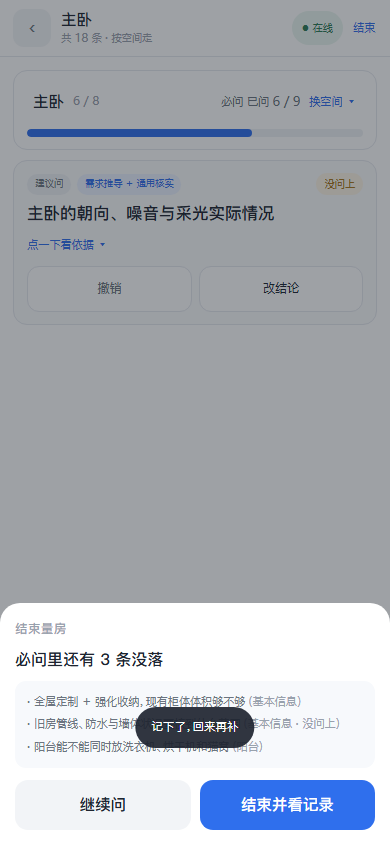
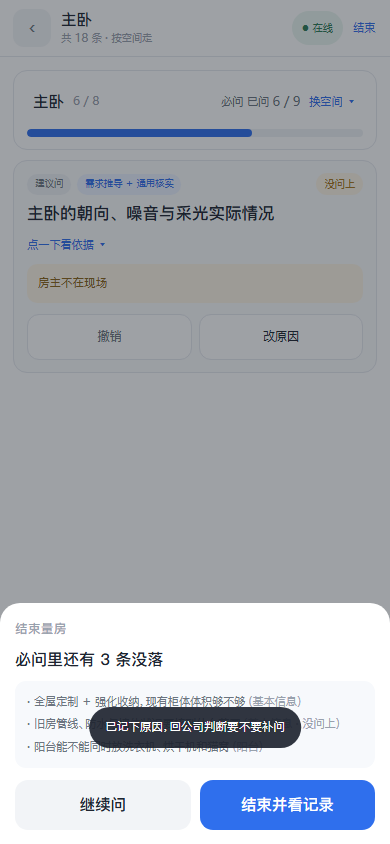
feat: 「没问上」也开抽屉记一句原因，产品文档升到 V0.8

Changed region(s): [[0.2154, 0.8318, 0.7692, 0.8934], [0.0923, 0.3081, 0.3077, 0.4313], [0.6769, 0.3389, 0.7692, 0.4005]]

diff --git a/designer/现场量房_Demo_V0.1.html b/designer/现场量房_Demo_V0.1.html
@@ -87,6 +87,7 @@ button{font:inherit;cursor:pointer;border:0;background:none;color:inherit;text-a
 .det b{color:#4a5462;font-weight:500}
 .det .row + .row{margin-top:6px}
 .note{margin-top:9px;background:var(--green-weak);border-radius:10px;padding:9px 11px;font-size:13px;line-height:1.6;color:#255f42}
+.note.skip{background:var(--amber-weak);color:#8a6216}
 .acts{display:flex;gap:7px;margin-top:11px}
 .act{min-height:46px;border-radius:12px;border:1px solid var(--line);background:#fff;display:flex;align-items:center;justify-content:center;font-size:13.5px;flex:1;text-align:center}
 .act.main{flex:1.5;background:var(--brand);border-color:var(--brand);color:#fff;font-weight:600;font-size:15px}
@@ -392,9 +393,9 @@ function boot(){
         '<div class="row"><b>现场要核实　</b>' + esc(i.verify.join('；')) + '</div>' +
         (ctx ? '<div class="row"><b>房主填的　</b>' + ctx + '</div>' : '') + '</div>'
         : '<div class="hint">点一下看依据 ▾</div>') +
-      (r && r.note ? '<div class="note">' + esc(r.note) + '</div>' : '') +
+      (r && r.note ? '<div class="note' + (r.status === 'skip' ? ' skip' : '') + '">' + esc(r.note) + '</div>' : '') +
       '<div class="acts">' +
-        (r ? '<button class="act undo" data-a="undo">撤销</button><button class="act" data-a="note">改结论</button>'
+        (r ? '<button class="act undo" data-a="undo">撤销</button><button class="act" data-a="note">' + (r.status === 'skip' ? '改原因' : '改结论') + '</button>'
            : '<button class="act" data-a="skip">没问上</button><button class="act" data-a="note">记一笔</button>' +
              '<button class="act main" data-a="asked">已问</button>') +
       '</div></div>';
@@ -452,7 +453,7 @@ function boot(){
         const r = rec[keyOf(i)];
         const tag = r ? (r.status === 'asked' ? '已问' : '没问上') : '还没问到';
         out += '\n- [' + tag + '] ' + i.q + '\n';
-        if (r && r.note) out += '  结论：' + r.note + '\n';
+        if (r && r.note) out += (r.status === 'asked' ? '  结论：' : '  原因：') + r.note + '\n';
       });
     });
     return out;
@@ -461,23 +462,26 @@ function boot(){
   /* ===================== 底部抽屉 ===================== */
   function overlayHtml() {
     const o = state.overlay;
-    if (o.kind === 'note') return noteSheet(o.item);
+    if (o.kind === 'note') return noteSheet(o.item, o.status);
     if (o.kind === 'spaces') return spacesSheet();
     return endSheet();
   }
 
-  function noteSheet(item) {
+  function noteSheet(item, status) {
     const d = demand();
+    const skip = status === 'skip';
     const ctx = item.fields.filter(f => !isEmpty(d.values[f]))
       .map(f => '<b>' + esc((F[f] || {}).label || f) + '</b>　' + esc(show(d.values[f]))).join('<br>');
-    const quick = ['房主确认可以', '现场条件不允许', '要回去核尺寸', '房主改了想法', '要加预算'];
-    return '<div class="sheet on" id="sheet"><h4>记一笔 · 保存后标成已问</h4>' +
+    const quick = skip
+      ? ['房主不在现场', '现场条件不允许', '时间不够，回头再问', '要等物业或图纸']
+      : ['房主确认可以', '现场条件不允许', '要回去核尺寸', '房主改了想法', '要加预算'];
+    return '<div class="sheet on" id="sheet"><h4>' + (skip ? '记一句原因 · 保存后标成没问上' : '记一笔 · 保存后标成已问') + '</h4>' +
       '<div class="sq">' + esc(item.q) + '</div>' +
       (ctx ? '<div class="ctx"><b>房主填的</b><br>' + ctx + '</div>' : '') +
       '<div class="chips">' + quick.map(t => '<button class="chip" data-chip="' + esc(t) + '">' + esc(t) + '</button>').join('') + '</div>' +
-      '<textarea data-draft placeholder="一句话结论，回公司照着这条定方案">' + esc(state.overlay.text || '') + '</textarea>' +
+      '<textarea data-draft placeholder="' + (skip ? '为什么没问上，回公司好判断要不要补问' : '一句话结论，回公司照着这条定方案') + '">' + esc(state.overlay.text || '') + '</textarea>' +
       '<div class="sf"><button class="btn" id="sh-cancel">取消</button>' +
-      '<button class="btn primary" id="sh-save">保存并标记已问</button></div></div>';
+      '<button class="btn primary" id="sh-save">' + (skip ? '保存并标记没问上' : '保存并标记已问') + '</button></div></div>';
   }
 
   function spacesSheet() {
@@ -542,8 +546,8 @@ function boot(){
     if (open.length) { state.overlay = { kind:'end' }; state.scroll = 0; render(); }
     else { state.screen = 'summary'; state.scroll = 0; render(); }
   }
-  function openNote(item) {
-    state.overlay = { kind:'note', item, text:(recOf(state.cur)[keyOf(item)] || {}).note || '' };
+  function openNote(item, status) {
+    state.overlay = { kind:'note', item, status:status || 'asked', text:(recOf(state.cur)[keyOf(item)] || {}).note || '' };
     render();
     const ta = app.querySelector('textarea[data-draft]'); if (ta) ta.focus();
   }
@@ -575,12 +579,14 @@ function boot(){
     if (t.id === 'sh-cancel') { state.overlay = null; render(); return; }
     if (t.id === 'sh-end') { state.overlay = null; state.screen = 'summary'; state.scroll = 0; render(); return; }
     if (t.id === 'sh-save') {
-      const item = state.overlay.item; const text = (state.overlay.text || '').trim();
-      const key = keyOf(item);
+      const o = state.overlay;
+      const key = keyOf(o.item);
+      const status = o.status || 'asked';
+      const text = (o.text || '').trim();
       state.overlay = null;
-      if (text) recOf(state.cur)[key] = { status:'asked', note:text, at:nowHM(), synced:state.online };
+      recOf(state.cur)[key] = { status, note:text, at:nowHM(), synced:state.online };
       render();
-      toast('已记录，回来照着这条定方案');
+      toast(status === 'asked' ? '已记录，回来照着这条定方案' : '已记下原因，回公司判断要不要补问');
       return;
     }
     const chip = t.closest('[data-chip]');
@@ -598,11 +604,15 @@ function boot(){
       const card = act.closest('[data-key]'); const k = card.dataset.key;
       const a = act.dataset.a;
       if (a === 'asked') { setStatus(k, 'asked'); toast('已记录：' + state.space); return; }
-      if (a === 'skip') { setStatus(k, 'skip'); toast('记下了，回来再补'); return; }
+      if (a === 'skip') {
+        const it = itemsOf(demand()).find(x => keyOf(x) === k);
+        if (it) openNote(it, 'skip');
+        return;
+      }
       if (a === 'undo') { delete recOf(state.cur)[k]; render(); return; }
       if (a === 'note') {
         const item = itemsOf(demand()).find(x => keyOf(x) === k);
-        if (item) openNote(item);
+        if (item) openNote(item, (recOf(state.cur)[k] || {}).status || 'asked');
         return;
       }
     }

diff --git a/tools/_onsite_template.html b/tools/_onsite_template.html
@@ -87,6 +87,7 @@ button{font:inherit;cursor:pointer;border:0;background:none;color:inherit;text-a
 .det b{color:#4a5462;font-weight:500}
 .det .row + .row{margin-top:6px}
 .note{margin-top:9px;background:var(--green-weak);border-radius:10px;padding:9px 11px;font-size:13px;line-height:1.6;color:#255f42}
+.note.skip{background:var(--amber-weak);color:#8a6216}
 .acts{display:flex;gap:7px;margin-top:11px}
 .act{min-height:46px;border-radius:12px;border:1px solid var(--line);background:#fff;display:flex;align-items:center;justify-content:center;font-size:13.5px;flex:1;text-align:center}
 .act.main{flex:1.5;background:var(--brand);border-color:var(--brand);color:#fff;font-weight:600;font-size:15px}
@@ -392,9 +393,9 @@ function boot(){
         '<div class="row"><b>现场要核实　</b>' + esc(i.verify.join('；')) + '</div>' +
         (ctx ? '<div class="row"><b>房主填的　</b>' + ctx + '</div>' : '') + '</div>'
         : '<div class="hint">点一下看依据 ▾</div>') +
-      (r && r.note ? '<div class="note">' + esc(r.note) + '</div>' : '') +
+      (r && r.note ? '<div class="note' + (r.status === 'skip' ? ' skip' : '') + '">' + esc(r.note) + '</div>' : '') +
       '<div class="acts">' +
-        (r ? '<button class="act undo" data-a="undo">撤销</button><button class="act" data-a="note">改结论</button>'
+        (r ? '<button class="act undo" data-a="undo">撤销</button><button class="act" data-a="note">' + (r.status === 'skip' ? '改原因' : '改结论') + '</button>'
            : '<button class="act" data-a="skip">没问上</button><button class="act" data-a="note">记一笔</button>' +
              '<button class="act main" data-a="asked">已问</button>') +
       '</div></div>';
@@ -452,7 +453,7 @@ function boot(){
         const r = rec[keyOf(i)];
         const tag = r ? (r.status === 'asked' ? '已问' : '没问上') : '还没问到';
         out += '\n- [' + tag + '] ' + i.q + '\n';
-        if (r && r.note) out += '  结论：' + r.note + '\n';
+        if (r && r.note) out += (r.status === 'asked' ? '  结论：' : '  原因：') + r.note + '\n';
       });
     });
     return out;
@@ -461,23 +462,26 @@ function boot(){
   /* ===================== 底部抽屉 ===================== */
   function overlayHtml() {
     const o = state.overlay;
-    if (o.kind === 'note') return noteSheet(o.item);
+    if (o.kind === 'note') return noteSheet(o.item, o.status);
     if (o.kind === 'spaces') return spacesSheet();
     return endSheet();
   }
 
-  function noteSheet(item) {
+  function noteSheet(item, status) {
     const d = demand();
+    const skip = status === 'skip';
     const ctx = item.fields.filter(f => !isEmpty(d.values[f]))
       .map(f => '<b>' + esc((F[f] || {}).label || f) + '</b>　' + esc(show(d.values[f]))).join('<br>');
-    const quick = ['房主确认可以', '现场条件不允许', '要回去核尺寸', '房主改了想法', '要加预算'];
-    return '<div class="sheet on" id="sheet"><h4>记一笔 · 保存后标成已问</h4>' +
+    const quick = skip
+      ? ['房主不在现场', '现场条件不允许', '时间不够，回头再问', '要等物业或图纸']
+      : ['房主确认可以', '现场条件不允许', '要回去核尺寸', '房主改了想法', '要加预算'];
+    return '<div class="sheet on" id="sheet"><h4>' + (skip ? '记一句原因 · 保存后标成没问上' : '记一笔 · 保存后标成已问') + '</h4>' +
       '<div class="sq">' + esc(item.q) + '</div>' +
       (ctx ? '<div class="ctx"><b>房主填的</b><br>' + ctx + '</div>' : '') +
       '<div class="chips">' + quick.map(t => '<button class="chip" data-chip="' + esc(t) + '">' + esc(t) + '</button>').join('') + '</div>' +
-      '<textarea data-draft placeholder="一句话结论，回公司照着这条定方案">' + esc(state.overlay.text || '') + '</textarea>' +
+      '<textarea data-draft placeholder="' + (skip ? '为什么没问上，回公司好判断要不要补问' : '一句话结论，回公司照着这条定方案') + '">' + esc(state.overlay.text || '') + '</textarea>' +
       '<div class="sf"><button class="btn" id="sh-cancel">取消</button>' +
-      '<button class="btn primary" id="sh-save">保存并标记已问</button></div></div>';
+      '<button class="btn primary" id="sh-save">' + (skip ? '保存并标记没问上' : '保存并标记已问') + '</button></div></div>';
   }
 
   function spacesSheet() {
@@ -542,8 +546,8 @@ function boot(){
     if (open.length) { state.overlay = { kind:'end' }; state.scroll = 0; render(); }
     else { state.screen = 'summary'; state.scroll = 0; render(); }
   }
-  function openNote(item) {
-    state.overlay = { kind:'note', item, text:(recOf(state.cur)[keyOf(item)] || {}).note || '' };
+  function openNote(item, status) {
+    state.overlay = { kind:'note', item, status:status || 'asked', text:(recOf(state.cur)[keyOf(item)] || {}).note || '' };
     render();
     const ta = app.querySelector('textarea[data-draft]'); if (ta) ta.focus();
   }
@@ -575,12 +579,14 @@ function boot(){
     if (t.id === 'sh-cancel') { state.overlay = null; render(); return; }
     if (t.id === 'sh-end') { state.overlay = null; state.screen = 'summary'; state.scroll = 0; render(); return; }
     if (t.id === 'sh-save') {
-      const item = state.overlay.item; const text = (state.overlay.text || '').trim();
-      const key = keyOf(item);
+      const o = state.overlay;
+      const key = keyOf(o.item);
+      const status = o.status || 'asked';
+      const text = (o.text || '').trim();
       state.overlay = null;
-      if (text) recOf(state.cur)[key] = { status:'asked', note:text, at:nowHM(), synced:state.online };
+      recOf(state.cur)[key] = { status, note:text, at:nowHM(), synced:state.online };
       render();
-      toast('已记录，回来照着这条定方案');
+      toast(status === 'asked' ? '已记录，回来照着这条定方案' : '已记下原因，回公司判断要不要补问');
       return;
     }
     const chip = t.closest('[data-chip]');
@@ -598,11 +604,15 @@ function boot(){
       const card = act.closest('[data-key]'); const k = card.dataset.key;
       const a = act.dataset.a;
       if (a === 'asked') { setStatus(k, 'asked'); toast('已记录：' + state.space); return; }
-      if (a === 'skip') { setStatus(k, 'skip'); toast('记下了，回来再补'); return; }
+      if (a === 'skip') {
+        const it = itemsOf(demand()).find(x => keyOf(x) === k);
+        if (it) openNote(it, 'skip');
+        return;
+      }
       if (a === 'undo') { delete recOf(state.cur)[k]; render(); return; }
       if (a === 'note') {
         const item = itemsOf(demand()).find(x => keyOf(x) === k);
-        if (item) openNote(item);
+        if (item) openNote(item, (recOf(state.cur)[k] || {}).status || 'asked');
         return;
       }
     }

diff --git a/docs/设计需求解读台_技术方案_V1.md b/docs/设计需求解读台_技术方案_V1.md
@@ -203,7 +203,7 @@ API 的请求与响应由 `packages/contracts` 里的 zod schema 定义，运行
 | `checklists` | `demand_sheet_id`、生成时间、所用模型、规则版本 |
 | `checklist_items` | **uuid 主键**、空间、档位（必问 / 建议问）、来源（需求推导 / 通用核实）、问题、为什么问、现场要核实、关联字段 ID |
 | `outbound_records` | 每次生成的外发字段清单、脱敏命中位置、时间、操作人 |
-| `site_records` | V1.1：**客户端生成的 uuid**、条目的稳定标识（核实对象 + 主要来源字段，不带分组）、是否已问、一句话结论、记录时间 |
+| `site_records` | V1.1：**客户端生成的 uuid**、条目的稳定标识（核实对象 + 主要来源字段，不带分组）、状态（已问 / 没问上）、一句话结论或原因、记录时间 |
 
 两个约束值得单独说：
 
